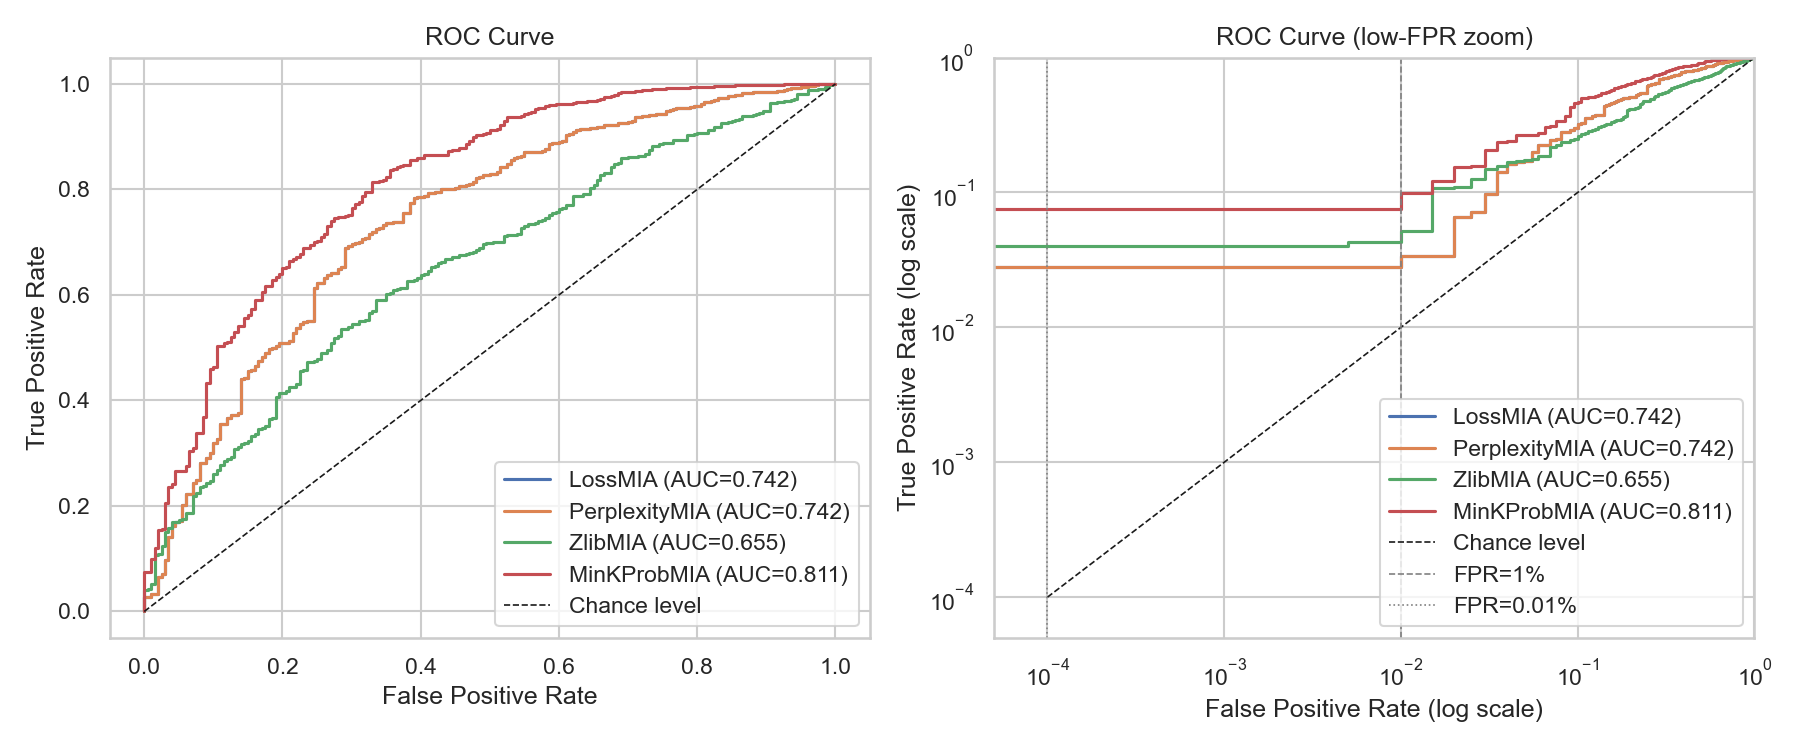
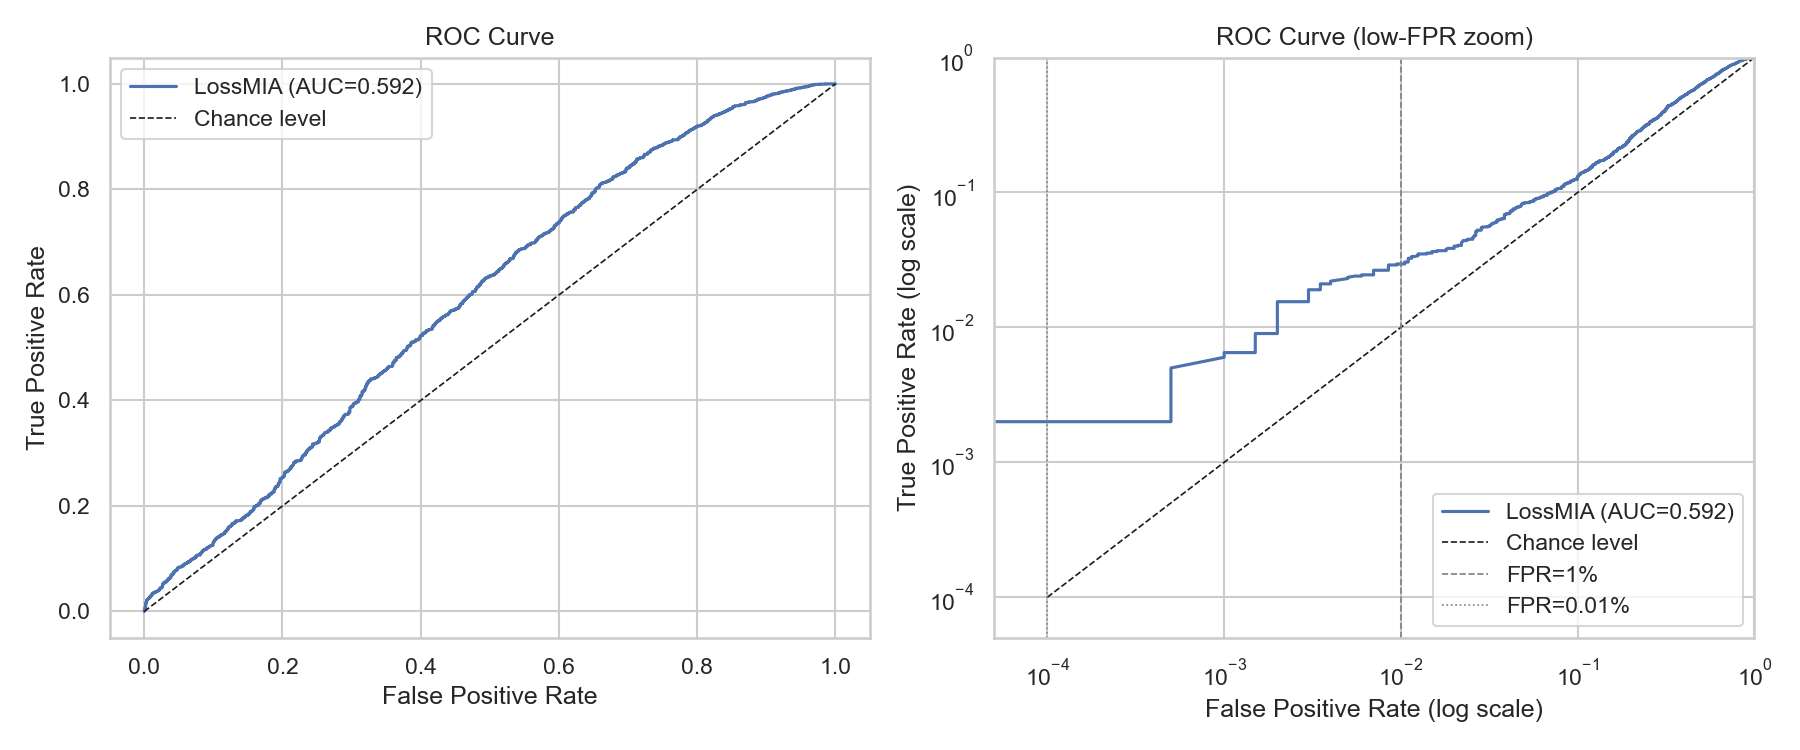
Add files via upload

diff --git a/mia_report.md b/mia_report.md
@@ -1,4 +1,4 @@
-# Audit MIA — GPT-2 fine-tuné sur IMDB
+# Audit MIA — CelebA (ResNet18 — Smiling)
 
 ## Metadata
 
@@ -20,18 +20,15 @@
 
 | | |
 |---|---|
-| **Target model** | GPT-2 fine-tuned IMDB |
+| **Target model** | ResNet18 |
 | **Model wrapper** | Model Wrapper not specified |
-| **Audit set** | 1200 samples (1000 members / 200 non-members) |
+| **Audit set** | 4000 samples (2000 members / 2000 non-members) |
 
 ## Metrics
 
 | MIA | AUC | TPR@1% | TPR@0.01% |
 |--------|--------|--------|--------|
-| LossMIA | 0.7415 | 0.0340 | 0.0280 |
-| PerplexityMIA | 0.7415 | 0.0340 | 0.0280 |
-| ZlibMIA | 0.6551 | 0.0520 | 0.0400 |
-| MinKProbMIA | 0.8113 | 0.0990 | 0.0750 |
+| LossMIA | 0.5925 | 0.0295 | 0.0020 |
 
 - **AUC**: Illustrates the performance of the classifier : formally, it is the area under the TPR@FPR curve for different values of FPR. Probabilistically, one can interpret that as the probability, given a {member, non-member} pair, that the mia score of the member is higher than the mia score of the non-member
 - **TPR@1%**: Fraction of members that are classified as such when choosing an operating point where only 1% of actual non-members are classified as members
